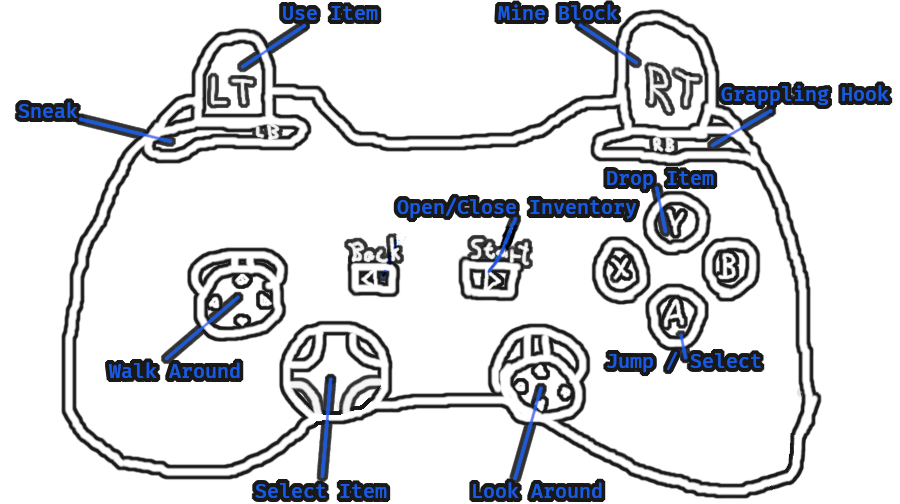
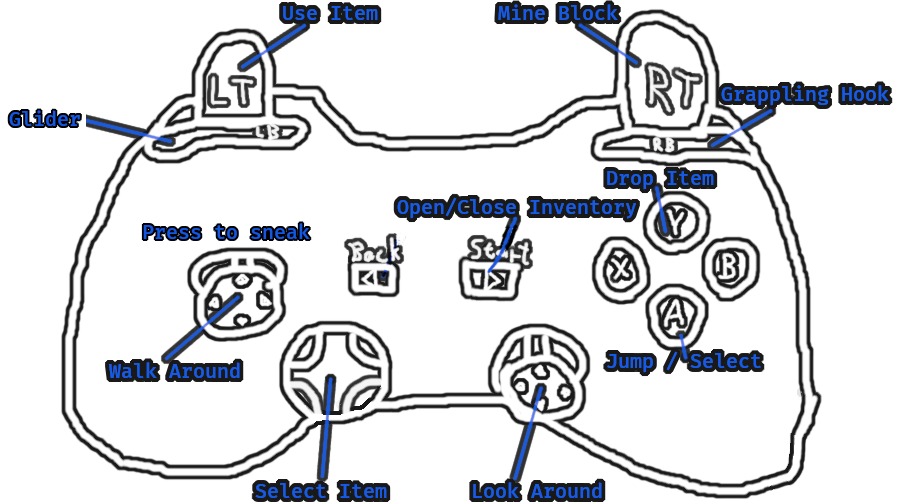
Fixed the image explaining the gamepad control scheme as well as reworked some explanatory texts

Changed region(s): [[0.0, 0.1786, 0.0933, 0.2679], [0.1556, 0.4464, 0.3422, 0.4762]]

diff --git a/web/index.html b/web/index.html
@@ -14,6 +14,7 @@
 	<hr/>
 	<p>Greetings Cybersurfer, you have reached my little corner of the WWW offering a sneak peek of a videogame I have been developing in my spare time.</p>
 	<p>You can watch me work on this Game on my <a href="https://www.twitch.tv/melchizedek6809">Twitch channel</a>, I try to do more visually exciting features on stream but it is still just me coding away, so be prepared for that.</p>
+	<p>Apart from that you can also join our <a href="https://discord.gg/vPZffVS">Discord</a>. </p>
 	<p>For now only Win/Mac/Lin are supported with a native version, although there is the wasm version which should work on every OS having a modern Browser. Apart from that the codebase is already running and getting regular testing on OpenBSD and Haiku.</p><br/>
 	<h2>Download a native Version:</h2>
 	<hr/>
@@ -43,7 +44,7 @@
 	<hr/>
 	<h3>My Priorities for this Game</h3>
 	<h4>Cooperation over Competition</h4>
-	<p>Playing together as a group in a survival sandbox and fighting the common enemy have been some of the most enjoyable experiences I had in gaming, that is why I want to put most of my time into optimizing for this play style.</p>
+	<p>Playing together as a group in a survival sandbox and fighting a common enemy have been some of the most enjoyable experiences I had in gaming, that is why I want to put most of my time into optimizing for this style instead of players competing with each other (apart from that there are already a lot of competitive shooters out there).</p>
 	<h4>Exploration over Grinding</h4>
 	<p>I try to keep the grinding to a minimum, which is one of the reasons why I do not want players to have to mine for resources, instead players should explore and/or fight to progress.</p>
 	<h4>Gameplay over Beauty</h4>
@@ -65,6 +66,7 @@
 	<p><span class=key>LMB</span> to destroy a block.</p>
 	<p><span class=key>Mousewheel</span> or <span class=key>1...0</span> to select an item..</p>
 	<p><span class=key>RMB</span> to use the current item.</p>
+	<p><span class=key>V</span> for a glider.</p>
 	<p><span class=key>Q</span> to drop the current item.</p>
 	<p><span class=key>N</span> to start flying around in no-clip mode.</p>
 	<br/>

diff --git a/client/src/game/animal.c b/client/src/game/animal.c
@@ -44,7 +44,7 @@ animal *animalNew(float x, float y, float z , int type){
 	e->type       = type;
 
 	e->nextFree   = NULL;
-	e->curChungus = NULL;	
+	e->curChungus = NULL;
 
 	return e;
 }
@@ -83,10 +83,7 @@ void animalDrawAll(){
 void animalUpdateAll(){
 	for(int i=0;i<animalCount;i++){
 		if(animalList[i].nextFree != NULL){ continue; }
-		if(!(animalList[i].flags & ANIMAL_UPDATED)){
-			animalUpdate(&animalList[i]);
-		}
-		animalList[i].flags &= ~ANIMAL_UPDATED;
+		animalUpdate(&animalList[i]);
 	}
 }
 
@@ -95,7 +92,7 @@ void animalSyncFromServer(packet *p){
 	int i       = p->val.u[12];
 	animal *e   = &animalList[i];
 	if(i >= animalCount){return;}
-	
+
 	e->x     = p->val.f[ 0];
 	e->y     = p->val.f[ 1];
 	e->z     = p->val.f[ 2];
